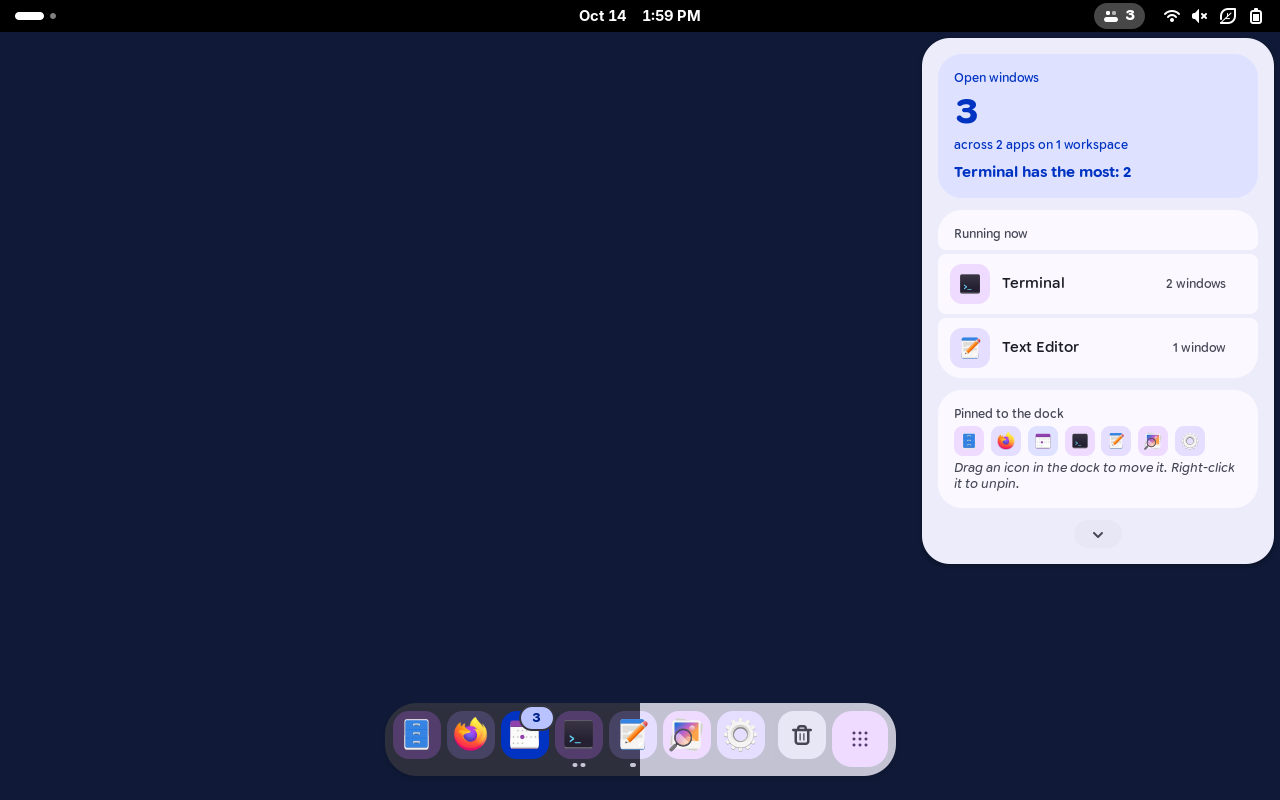
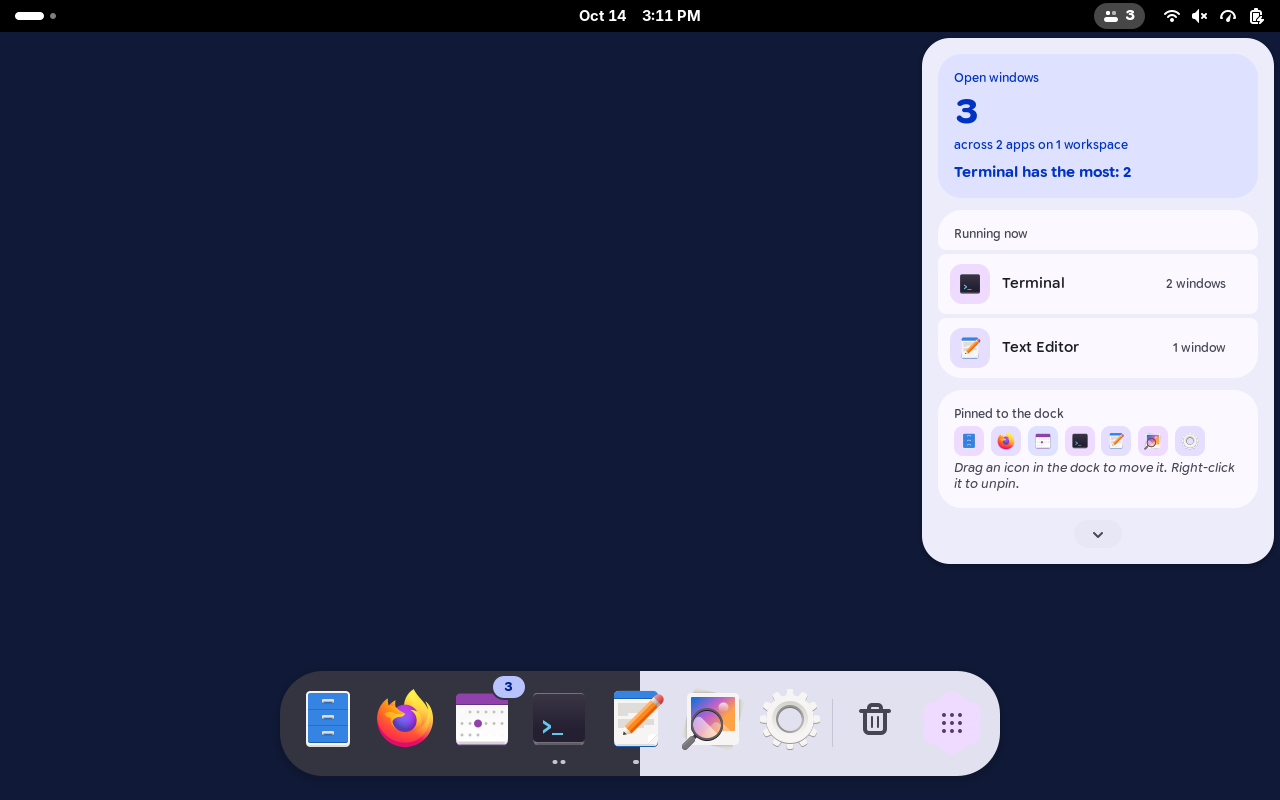
Measure the rail's pill after it unfolds, test always-moving, and document Harbor 2

Changed region(s): [[0.2188, 0.8125, 0.7812, 0.9688], [0.9375, 0.0, 0.9688, 0.0312], [0.5, 0.0, 0.5312, 0.0312]]

diff --git a/extension/lib/styles/expressive-rail.js b/extension/lib/styles/expressive-rail.js
@@ -194,7 +194,9 @@ export class ExpressiveRailStyle extends Style {
         if (unfold) {
             this.pill.x = Math.round(from);
             this.pill.width = height;
-            spring(this.pill, {width: natural, x: Math.round(to)}, {spring: SPRINGS.spread});
+            // Measured again at the end: a pill that unfolds before its
+            // words are laid out would stay too narrow.
+            spring(this.pill, {width: natural, x: Math.round(to)}, {spring: SPRINGS.spread, onDone: () => this._placePill()});
         } else {
             this.pill.x = Math.round(to);
             this.pill.width = natural;

diff --git a/tools/headless/scripts/behave.js b/tools/headless/scripts/behave.js
@@ -80,6 +80,14 @@ export default async function ({extension, shot, sleep, note, moveTo, move, clic
     await shot('behave-see-through');
     set('seeThrough', false);
 
+    // Always moving turns the focus shape.
+    set('alwaysMoving', true);
+    await sleep(400);
+    note(`always moving: focus shape turns=${Boolean(dock()._style.glider._spin)}`);
+    set('alwaysMoving', false);
+    await sleep(200);
+    note(`always moving off: turns=${Boolean(dock()._style.glider._spin)}`);
+
     // Minimising flies into the icon.
     await sleep(500);
     const [ok, rect] = editor.get_icon_geometry();

diff --git a/README.md b/README.md
@@ -19,7 +19,7 @@
 
 **Harbor** is a whole dock on its own. It needs nothing from **Dash to Dock** or any other extension, only **GNOME Shell 50**, so Dash to Dock can be switched off once Harbor runs.
 
-It decides most things by itself: what a click does, how opaque the bar is, when it gets out of the way, and how large its icons can be on your screen. What is left to choose sits in the top bar menu, behind a chevron. Each choice takes effect at once.
+It decides most things by itself: what a click does, when it gets out of the way, and how large its icons can be on your screen. What is left to choose sits in the top bar menu, behind a chevron. Each choice takes effect at once.
 
 Harbor sends no notifications, reads nothing from the network and keeps one small settings file.
 
@@ -29,9 +29,12 @@ Harbor sends no notifications, reads nothing from the network and keeps one smal
 
 - **Eleven Styles:** From a floating bar to pebbles, an edge-to-edge rail or a split by workspace (see [The Styles](#the-styles)).
 - **Pinned and Running:** Pinned apps first, then apps that run without being pinned, then drives, the trash and **Show apps**.
+- **Free Icons:** The apps' own icons stand large and free. A shape behind an icon only shows a state: the pointer on it, the app starting, the app waiting. A shape in the focused app's tone glides from app to app.
+- **Expressive Motion:** The dock rises as a pill from the middle of the edge, spreads to both sides with a swing, and lets the icons pop up from the middle outwards (see [Motion](#motion)).
 - **Clicks That Adapt:** One click starts, focuses or minimises; an app with several windows shows a **window list** instead of pictures of windows.
-- **Making Room:** The dock steps aside when a window comes close and returns when you push the pointer against the edge.
-- **Status on the Icons:** Unread counts, a progress ring, a warning colour when an app wants attention, and a small wave while an app plays music.
+- **Making Room:** The dock steps aside when a window of the app in front comes close, and returns when the pointer rests on the edge. A thin handle can stay behind, per style.
+- **Status on the Icons:** Unread counts that pop and count up, a progress ring, a wiggle and a warning colour when an app wants attention, and a small wave while an app plays music.
+- **Minimise Into the Icon:** A window minimises into its app's icon in the dock.
 - **Drag to Arrange:** Drag an icon along the dock to move it, out of the dock to unpin it, or from the app grid into the dock to pin it.
 - **Right-Click Menu:** The app's own actions, a new window, pin or unpin, and quit, laid out like the rest of Harbor.
 - **A Mark in the Top Bar:** Two app tiles on a shelf and the number of open windows. Resting the pointer on it shows a small look; a click opens the menu.
@@ -47,16 +50,16 @@ Harbor sends no notifications, reads nothing from the network and keeps one smal
 
 | Style | What it looks like | What is special |
 | :--- | :--- | :--- |
-| **Floating bar** | A rounded bar floating above the edge | The default. Apps rest on tiles in their own tone. |
+| **Floating bar** | A rounded bar floating above the edge | The default. A shape in the app's tone glides behind the focused app. |
 | **Shape stage** | A pill; every app stands on a shape | The shape is the run indicator: a circle while closed, more points with more windows. |
 | **Grouped block** | Three named groups instead of one bar | The focused app's segment turns fully round and fills with the primary colour. |
 | **Expressive rail** | A rail along the whole edge | The focused app unfolds into a pill with its name. Always keeps its room unless set to **Hide**. |
 | **Status** | The floating bar | Status is said out loud: "64 % downloaded", "Wants attention", even with **Counts on icons** off. |
-| **Quiet handle** | A compact bar, one size smaller | When the dock is away, a thin handle stays at the edge. |
+| **Quiet handle** | A compact, calmer bar | Less padding and softer corners; made for a dock that is often away. |
 | **Loud tile** | The floating bar led by a large tile | The tile shows the focused app with its window count; without one, all open windows. |
-| **Mono container** | A round bar in one colour | Every icon in one colour; closed apps fade back. |
+| **Mono container** | A round bar in one colour | Every icon in one colour; closed apps fade back; a primary shape glides behind the focused app. |
 | **Window list** | The floating bar | An app's window list opens as soon as the pointer rests on it. |
-| **Pebbles** | No bar; every app floats on its own | Pebbles near the pointer grow; the one under it turns into a cookie and shows its name. |
+| **Pebbles** | No bar; every app floats on its own | Pebbles near the pointer grow; the one under it turns into a cookie and shows its name. Pebbles appear one by one. |
 | **Workspace split** | Three floating parts | Workspaces as buttons; apps without a window on this workspace fade back. |
 
 Every style works at the **left**, **bottom** and **right** edge (*tested* in the headless shell, light and dark).
@@ -88,14 +91,45 @@ Every style works at the **left**, **bottom** and **right** edge (*tested* in th
 | :--- | :--- | :--- |
 | **Dock style** | **Floating bar**, Shape stage, Grouped block, Expressive rail, Status, Quiet handle, Loud tile, Mono container, Window list, Pebbles, Workspace split | How the dock looks. Four styles show first; the rest unfold. |
 | **Where the dock sits** | Left, **Bottom**, Right | The screen edge. |
-| **Icon size** | Small 40, **Medium 48**, Large 56, Huge 64 | The size of the app icons; everything in a style scales with it. |
-| **When a window comes close** | Stay, **Make room**, Hide | **Stay** keeps the dock and its room; windows maximise up to it. **Make room** steps aside while a window overlaps it. **Hide** stays away until you need it. |
+| **Handle when away** | **On**, Off, for each style on its own | A thin grip stays at the edge while the dock is away. |
+| **Show on hover** | **On**, Off | Resting on the handle brings the dock; off, it takes a click. |
+| **Icon size** | Small 52, **Medium 64**, Large 76 | The size of the app icons as you see them; everything in a style scales with it. An earlier **Huge** becomes **Large**. |
+| **When a window comes close** | Stay, **Make room**, Hide | **Stay** keeps the dock and its room; windows maximise up to it. **Make room** steps aside while a window of the app in front overlaps it. **Hide** stays away until you need it. |
+| **See-through** | On, **Off** | The bars at **78 %**, as in **Ledge**. |
+| **Expressive motion** | **On**, Off | Springs for appearing, going and every state; off, the dock slides as calmly as before. |
+| **Speed of motion** | Quick, **Normal**, Slow | About **350**, **500** or **700 ms** for the dock to appear; all motion follows. |
+| **Always moving** | On, **Off** | Shapes turn slowly while nothing happens. Rests on battery and while the dock is away. |
 | **Trash and drives** | **On**, Off | Shows the trash and plugged-in or network drives at the end of the dock. |
 | **Counts on icons** | **On**, Off | Shows unread counts, progress and attention that apps report. |
 | **Every monitor** | On, **Off** | One dock on each screen instead of only the main one. |
 | **Colour** | **Blue**, Violet, Green, Orange, Pink | The colour style of the dock and the menus. |
 
 The settings live in **`~/.config/harbor/settings.json`**. A value Harbor does not know falls back to its default on its own; a broken file costs nothing but the broken values (*tested*).
+
+One key is not in the menu: **`"debug": true`** writes every decision of the dock (showing, going and why, its place, menus) to the journal:
+
+```bash
+journalctl -f -o cat /usr/bin/gnome-shell | grep Harbor
+```
+
+---
+
+## Motion
+
+![The floating bar appearing, in slow motion from top to bottom](readmestuff/motion.png)
+
+| Moment | What moves |
+| :--- | :--- |
+| **Appearing** | A pill rises from the middle of the edge, spreads to both sides past its length and back, and the icons pop up from the middle outwards. Groups of a style (**Workspace split**, **Grouped block**) follow one another. |
+| **Going** | The reverse in about two thirds of the time, without swinging: the icons gather in the middle, the bar draws into a pill and sinks. |
+| **A new style** | It shows itself with its own appearing, even on a dock that is away. |
+| **Starting an app** | Its shape breathes between circle and cookie and the icon hops, until the window comes (at most **10 s**). |
+| **A new or closed app** | Its neighbours move apart and it grows in, or it shrinks and they close up. |
+| **Focus** | The focus shape glides to the next app and follows it if it moves. |
+| **Hover and click** | A shape grows and morphs behind the icon, the icon lifts **4 px**; a press pushes the slot in and it springs back. |
+| **Counts and attention** | A new count pops and counts up; an app that waits wiggles every **4 s** and pulses. |
+
+The springs are Material 3 Expressive's, as in **Ledge**. GNOME's own **Animations** switch turns all of it off.
 
 ---
 
@@ -111,9 +145,9 @@ These are not settings, on purpose. If one of them is wrong for you, the fix bel
 | **Click on the focused app with several windows** | The window list opens. |
 | **Middle click** | A new window. |
 | **Mouse wheel over an app** | Goes through that app's windows. |
-| **Opacity** | **85 %** over the desktop, **100 %** while a window is maximised or the dock covers one. |
-| **A window comes close** | With **Make room**, the dock leaves in **200 ms** and comes back when the window has gone. |
-| **Pointer pushed against the edge** | The dock returns, and leaves again **0.5 s** after the pointer does. GNOME's own push strength for the hot corner is used. |
+| **A window comes close** | With **Make room**, only the windows of the app in front count, as with Intellihide. The dock leaves and comes back when they have gone. |
+| **Pointer resting on the edge** | After **200 ms** on the last pixel row under the dock, it returns; no push needed. It leaves again **0.5 s** after the pointer does. |
+| **Resting on the handle** | After **150 ms** the dock returns (with **Show on hover**). |
 | **Fullscreen** | The dock is gone. |
 | **Overview** | Harbor stays, and GNOME's own dash steps aside. |
 | **Too many apps for the edge** | The icons get smaller step by step, and grow back when there is room again. |
@@ -195,6 +229,7 @@ Colours come from **`extension/lib/palettes.js`**: each style is Material 3's **
 | Task | Command |
 | :--- | :--- |
 | **Unit tests** | `for t in tests/*.test.js; do gjs -m "$t"; done` |
+| **Motion frame by frame** | `HARBOR_ONLY="floating-bar pebbles" tools/headless/run.sh motion 190` |
 | **Stylesheet** | `gjs -m tools/build-stylesheet.js` |
 | **Headless shell** | `tools/headless/run.sh <script> [seconds]` with a script from **`tools/headless/scripts`**; screenshots land in **`$TMPDIR/harbor-headless`** |
 | **Two monitors** | `HARBOR_MONITORS=2 tools/headless/run.sh lifecycle` |
@@ -206,10 +241,12 @@ Colours come from **`extension/lib/palettes.js`**: each style is Material 3's **
 
 | Area | Evidence |
 | :--- | :--- |
-| **Settings, shapes, words, layout rules** | ***Tested:*** 35 unit tests. |
+| **Settings, shapes, springs, words, layout rules** | ***Tested:*** 48 unit tests. |
+| **Appearing and going in every style, focus gliding, hover, start, attention, counts** | ***Tested*** in the headless shell, frame by frame in slow motion (`motion` script). |
+| **Make room for the app in front, edge, handle per style, see-through, minimising into the icon** | ***Tested*** in the headless shell (`behave` script). |
 | **All eleven styles at three edges, light and dark** | ***Tested*** in the headless shell by screenshot. |
 | **Clicks, right-click menu, window list, pinning by drop, making room** | ***Tested*** in the headless shell with a virtual pointer. |
-| **The push against the edge, the room kept by Stay and the rail** | ***Built.*** Coming back was tested by calling it; the barrier and the reserved room were not measured. |
+| **The edge with a real touchpad, the room kept by Stay and the rail, smoothness on real hardware, Always moving on battery** | ***Built.*** The edge was tested with a virtual pointer; the rest was not measured. |
 | **Two monitors, overview, switching off and on through every style** | ***Tested*** in the headless shell, beside **Tally**, **Ember** and **Torch**, without errors. |
 | **Dragging with a real mouse, the app grid as a drag source** | ***Built.*** The drop itself is tested; a real drag is not. |
 | **Real LauncherEntry and MPRIS senders** | ***Built.*** Tested with states handed in by the test script. |
@@ -220,7 +257,10 @@ Colours come from **`extension/lib/palettes.js`**: each style is Material 3's **
 ## Decisions Made While Building
 
 - **Colours through one stylesheet class per scheme, not only `set_style()`:** St has no CSS variables, so the stylesheet is written once per colour and scheme and a colour change swaps one class. Hover and focus states keep working this way. Values that scale or animate are set in code.
-- **Real icons on tone tiles:** Each app sits on a tile in **primary**, **secondary** or **tertiary container**, chosen from its app id, so an app keeps its colour wherever it moves.
+- **Free icons, shapes only for states:** An icon on a permanent tile looked cramped. Each app keeps a tone (**primary**, **secondary** or **tertiary container**, chosen from its app id), but it only shows behind the icon on hover, at a start, and as the focus shape.
+- **Bars painted behind the buttons:** A bar is drawn by a stand-in on a layer below the icons, so it can spread from a pill and a focus shape can glide between it and the icons.
+- **Resting on the edge instead of a push:** A push of 100 px was hard on a touchpad; 200 ms on the last row is as hard to set off by passing by.
+- **Make room for the app in front only:** Every window on the workspace kept the dock away almost always.
 - **A list of styles in the menu:** Eleven styles do not fit segmented buttons; four rows show first, the chosen one always among them.
 - **No notification when pinning:** Pinning from the dock uses the shell's quiet calls; the change is in front of you anyway.
 - **The empty last workspace is hidden** in **Workspace split**, unless it is the active one.
